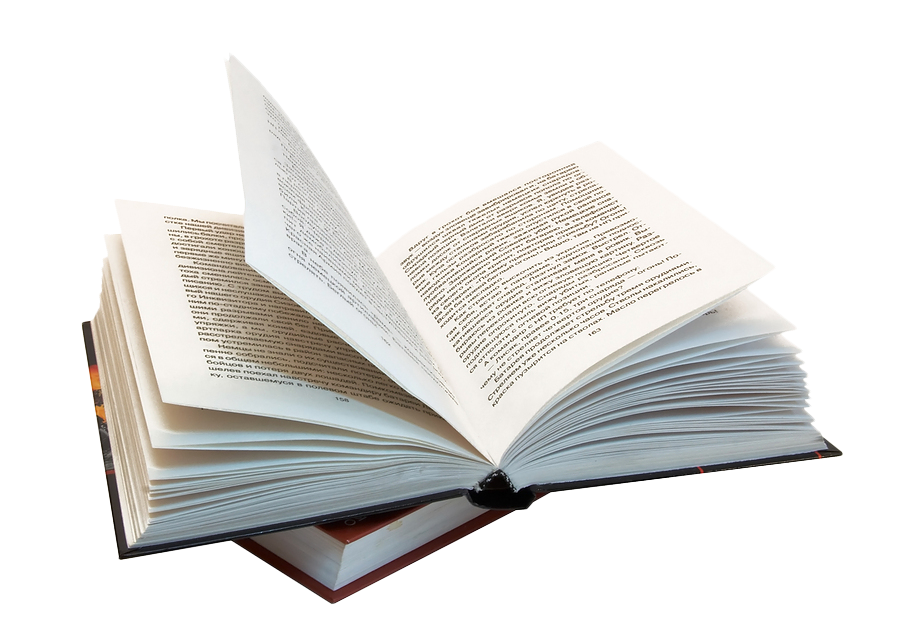
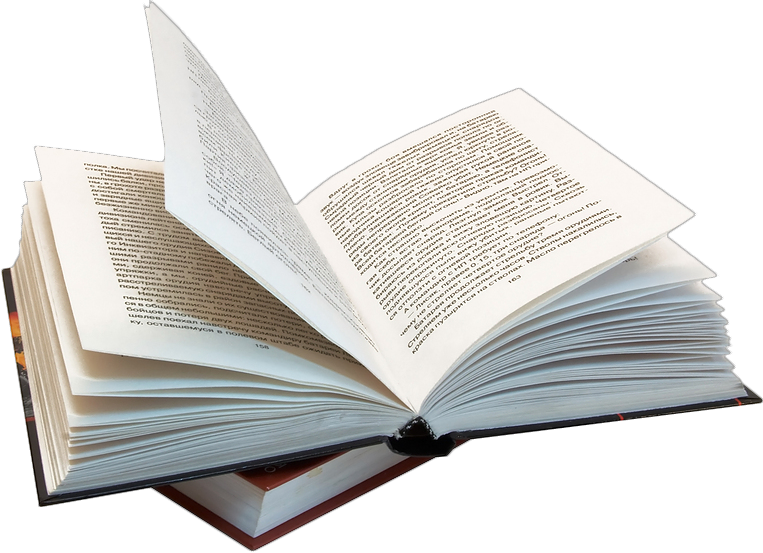
hero adjust

diff --git a/resources/views/home.blade.php b/resources/views/home.blade.php
@@ -19,9 +19,7 @@
                     Katalog Kami
                 </a>
             </div>
-            <div class="col-7 d-none d-lg-block">
-                <img src="{{ asset('img/book-hero.png') }}" style="max-width: 800px">
-            </div>
+            <img class="col-7 p-0 ps-5 mt-4 d-none d-lg-block hero-book" src="{{ asset('img/book-hero.png') }}">
         </div>
     </div>
 </div>
